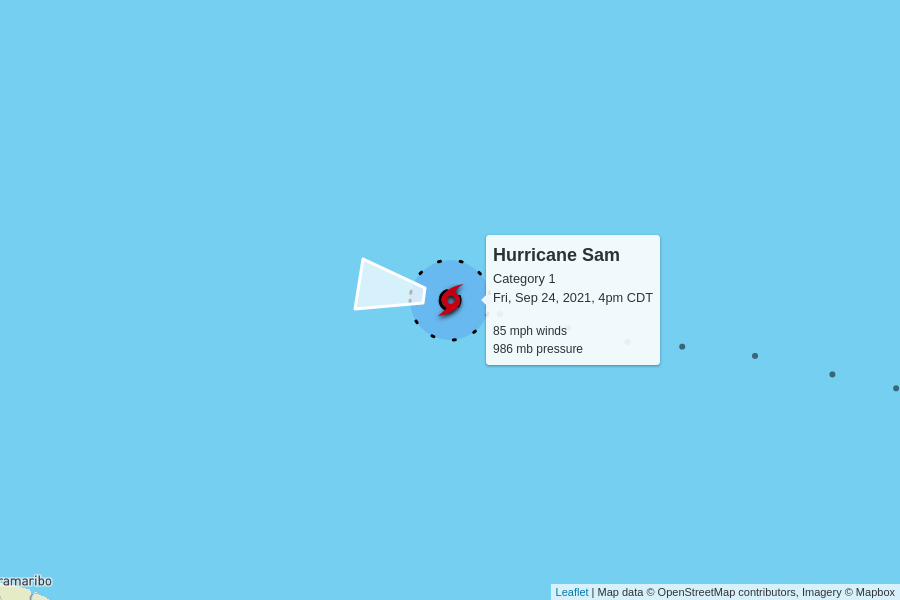
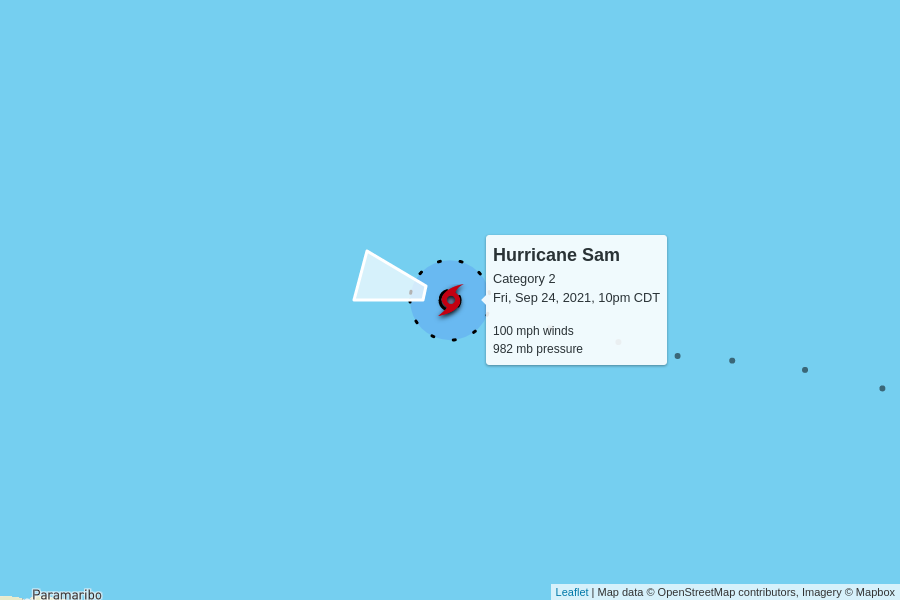
automatic update

diff --git a/docs/index.html b/docs/index.html
@@ -97,10 +97,10 @@
 
     <table>
       <tr>
-        <td colspan="6" class="storm category-1" >
+        <td colspan="6" class="storm category-2" >
           <h2>
-            Hurricane Sam - Category 1
-            <p class="updated">last updated <span data-time>2021-09-24T21:00:00.000Z</span></p>
+            Hurricane Sam - Category 2
+            <p class="updated">last updated <span data-time>2021-09-25T03:00:00.000Z</span></p>
           </h2>
         </td>
       </tr>
@@ -115,12 +115,12 @@
       </tr>
       <tr>
         <td class="spacer"></td>
-        <td>85 mph</td>
-        <td>986 mb</td>
+        <td>100 mph</td>
+        <td>982 mb</td>
         <td>
-          12 mph to the west
+          14 mph to the west-northwest
           <br/>
-          <span style="display: inline-block; font-size: 1.5em; transform: rotate(280deg);">↑</span>
+          <span style="display: inline-block; font-size: 1.5em; transform: rotate(285deg);">↑</span>
         </td>
         <td><a href="https://raw.githubusercontent.com/mgwalker/atlantic-hurricanes/main/data/csv/AL182021.csv">AL182021.csv</a></td>
         <td><a href="https://www.nhc.noaa.gov/archive/2021/SAM.shtml?">NHC advisories</a></td>
